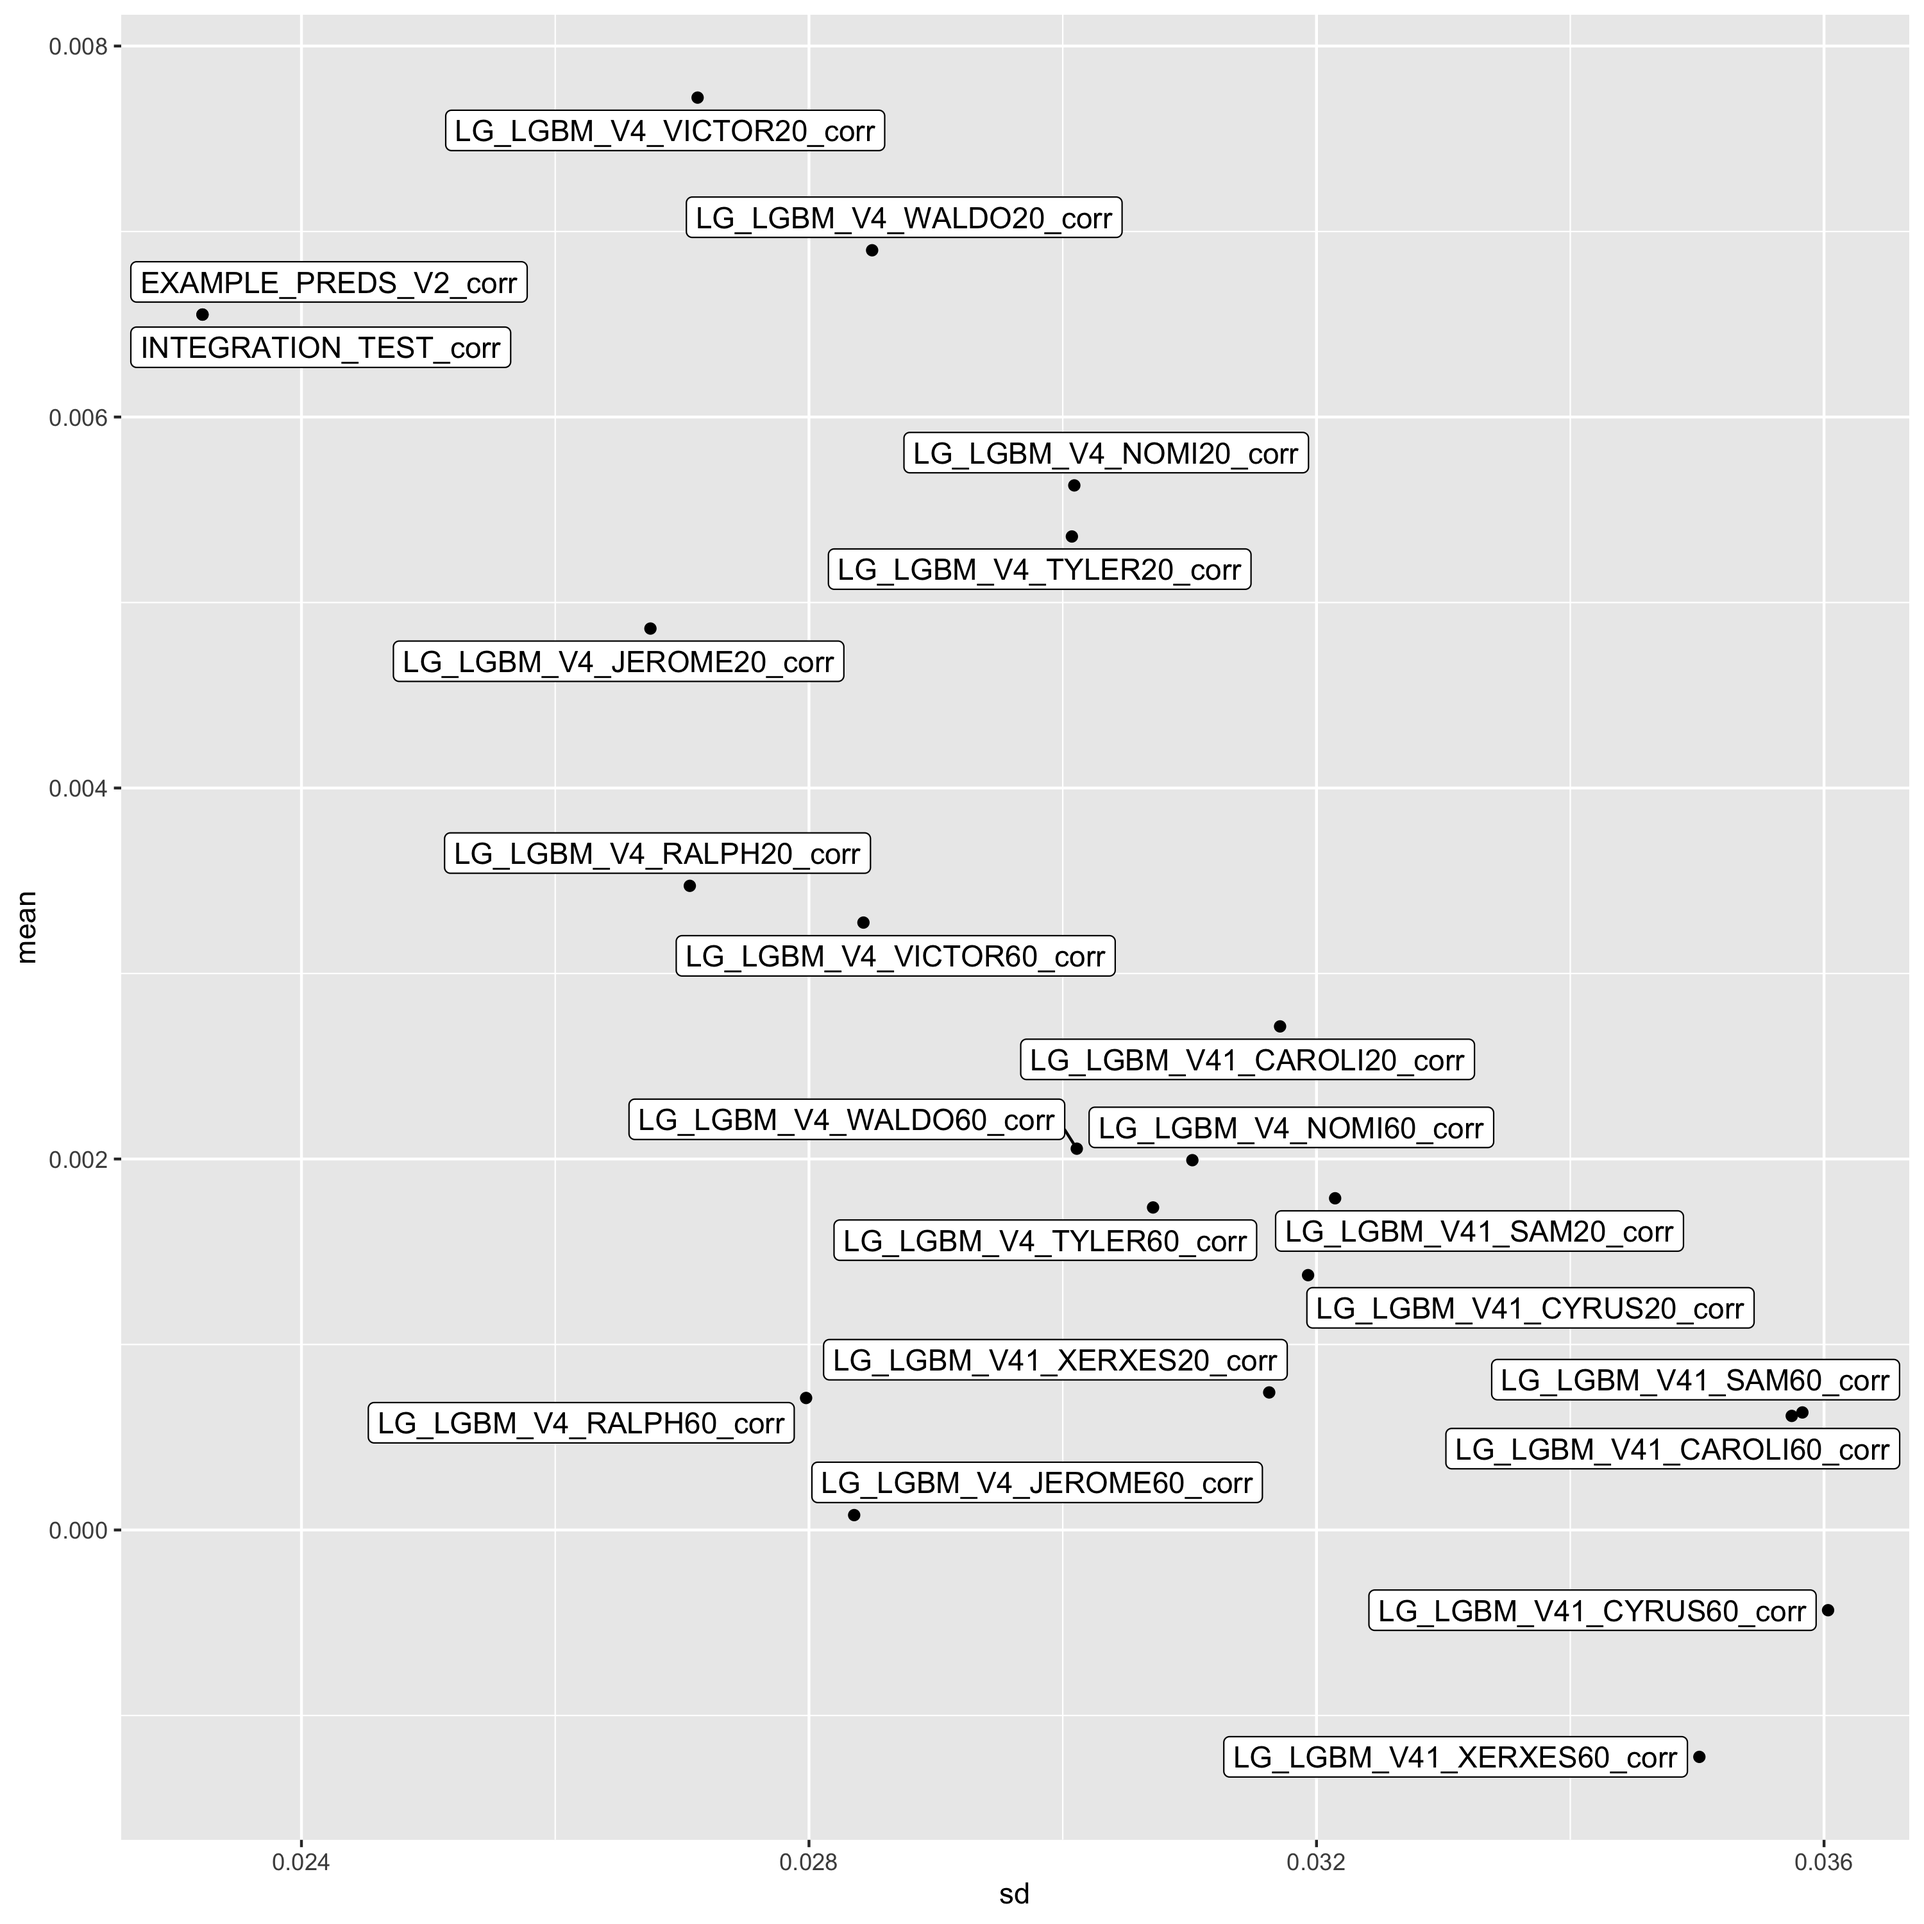
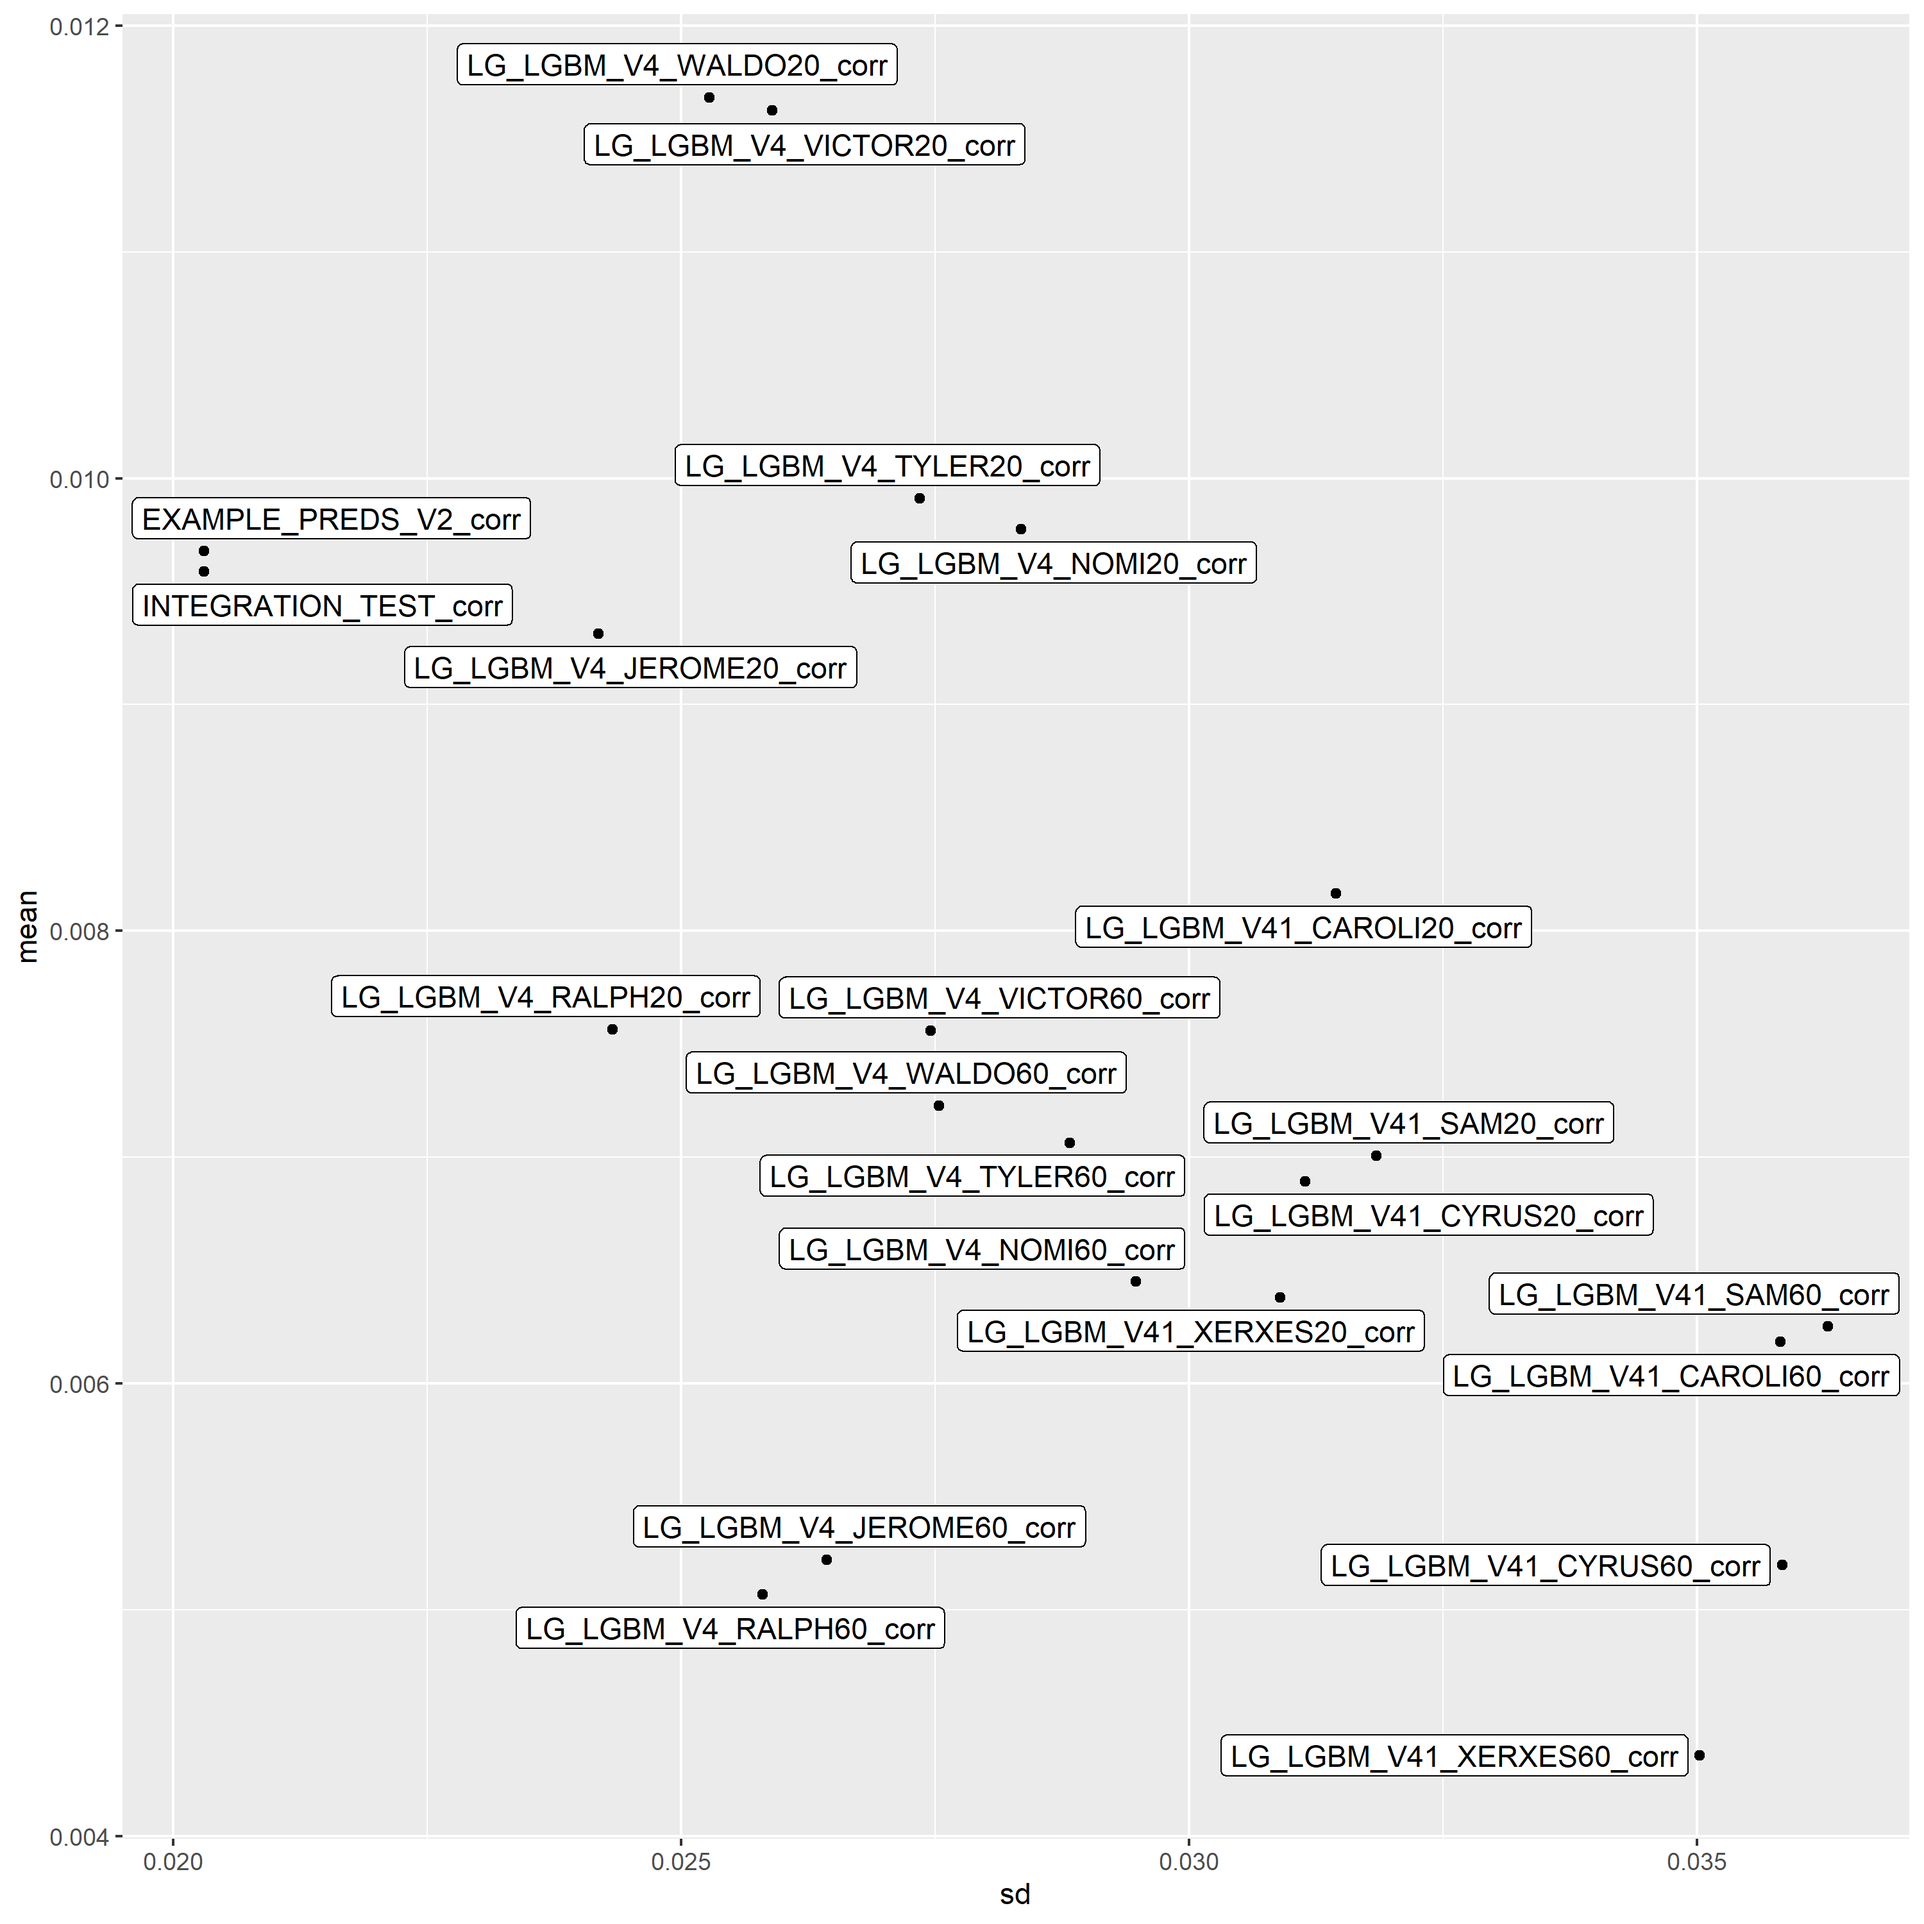
update that allows toggling whether or not to include unresolved rounds - the default is now to exclude those rounds..
Default was to include unresolved rounds, even though the readme claimed it only looked at resolved rounds.  Also added a check and warning now for the case where a portfolio algorithm might fail to get a sane solution.

diff --git a/CHANGELOG.md b/CHANGELOG.md
@@ -1,0 +1,6 @@
+2023-07-12: [BUGFIX]. Vlad now actually only considers resolved rounds (as promised in the readme). There is a new toggle in optimize_stake.R that allows you to choose the behavior.
+
+> If you want to use unresolved rounds, change to onlyresolved = FALSE. 
+> daily_data <- build_RAW(model_df,onlyresolved = TRUE)
+
+Also added a warning and a check for when people start tinkering with what models to add. Sometimes the tangency portfolio algorithm malfunctions, and picks a single negative-return stock. Now you get a warning that says which portfolio was excluded 

diff --git a/README.md b/README.md
@@ -1,5 +1,7 @@
 # vladthestaker
 
+For changelog see the CHANGELOG.md file
+
 ## Overview
 
 Vlad helps you decide your stake weights in Numer.ai. Use at your own risk. This script has been used by me for a while now, but no guarantees are provided.
